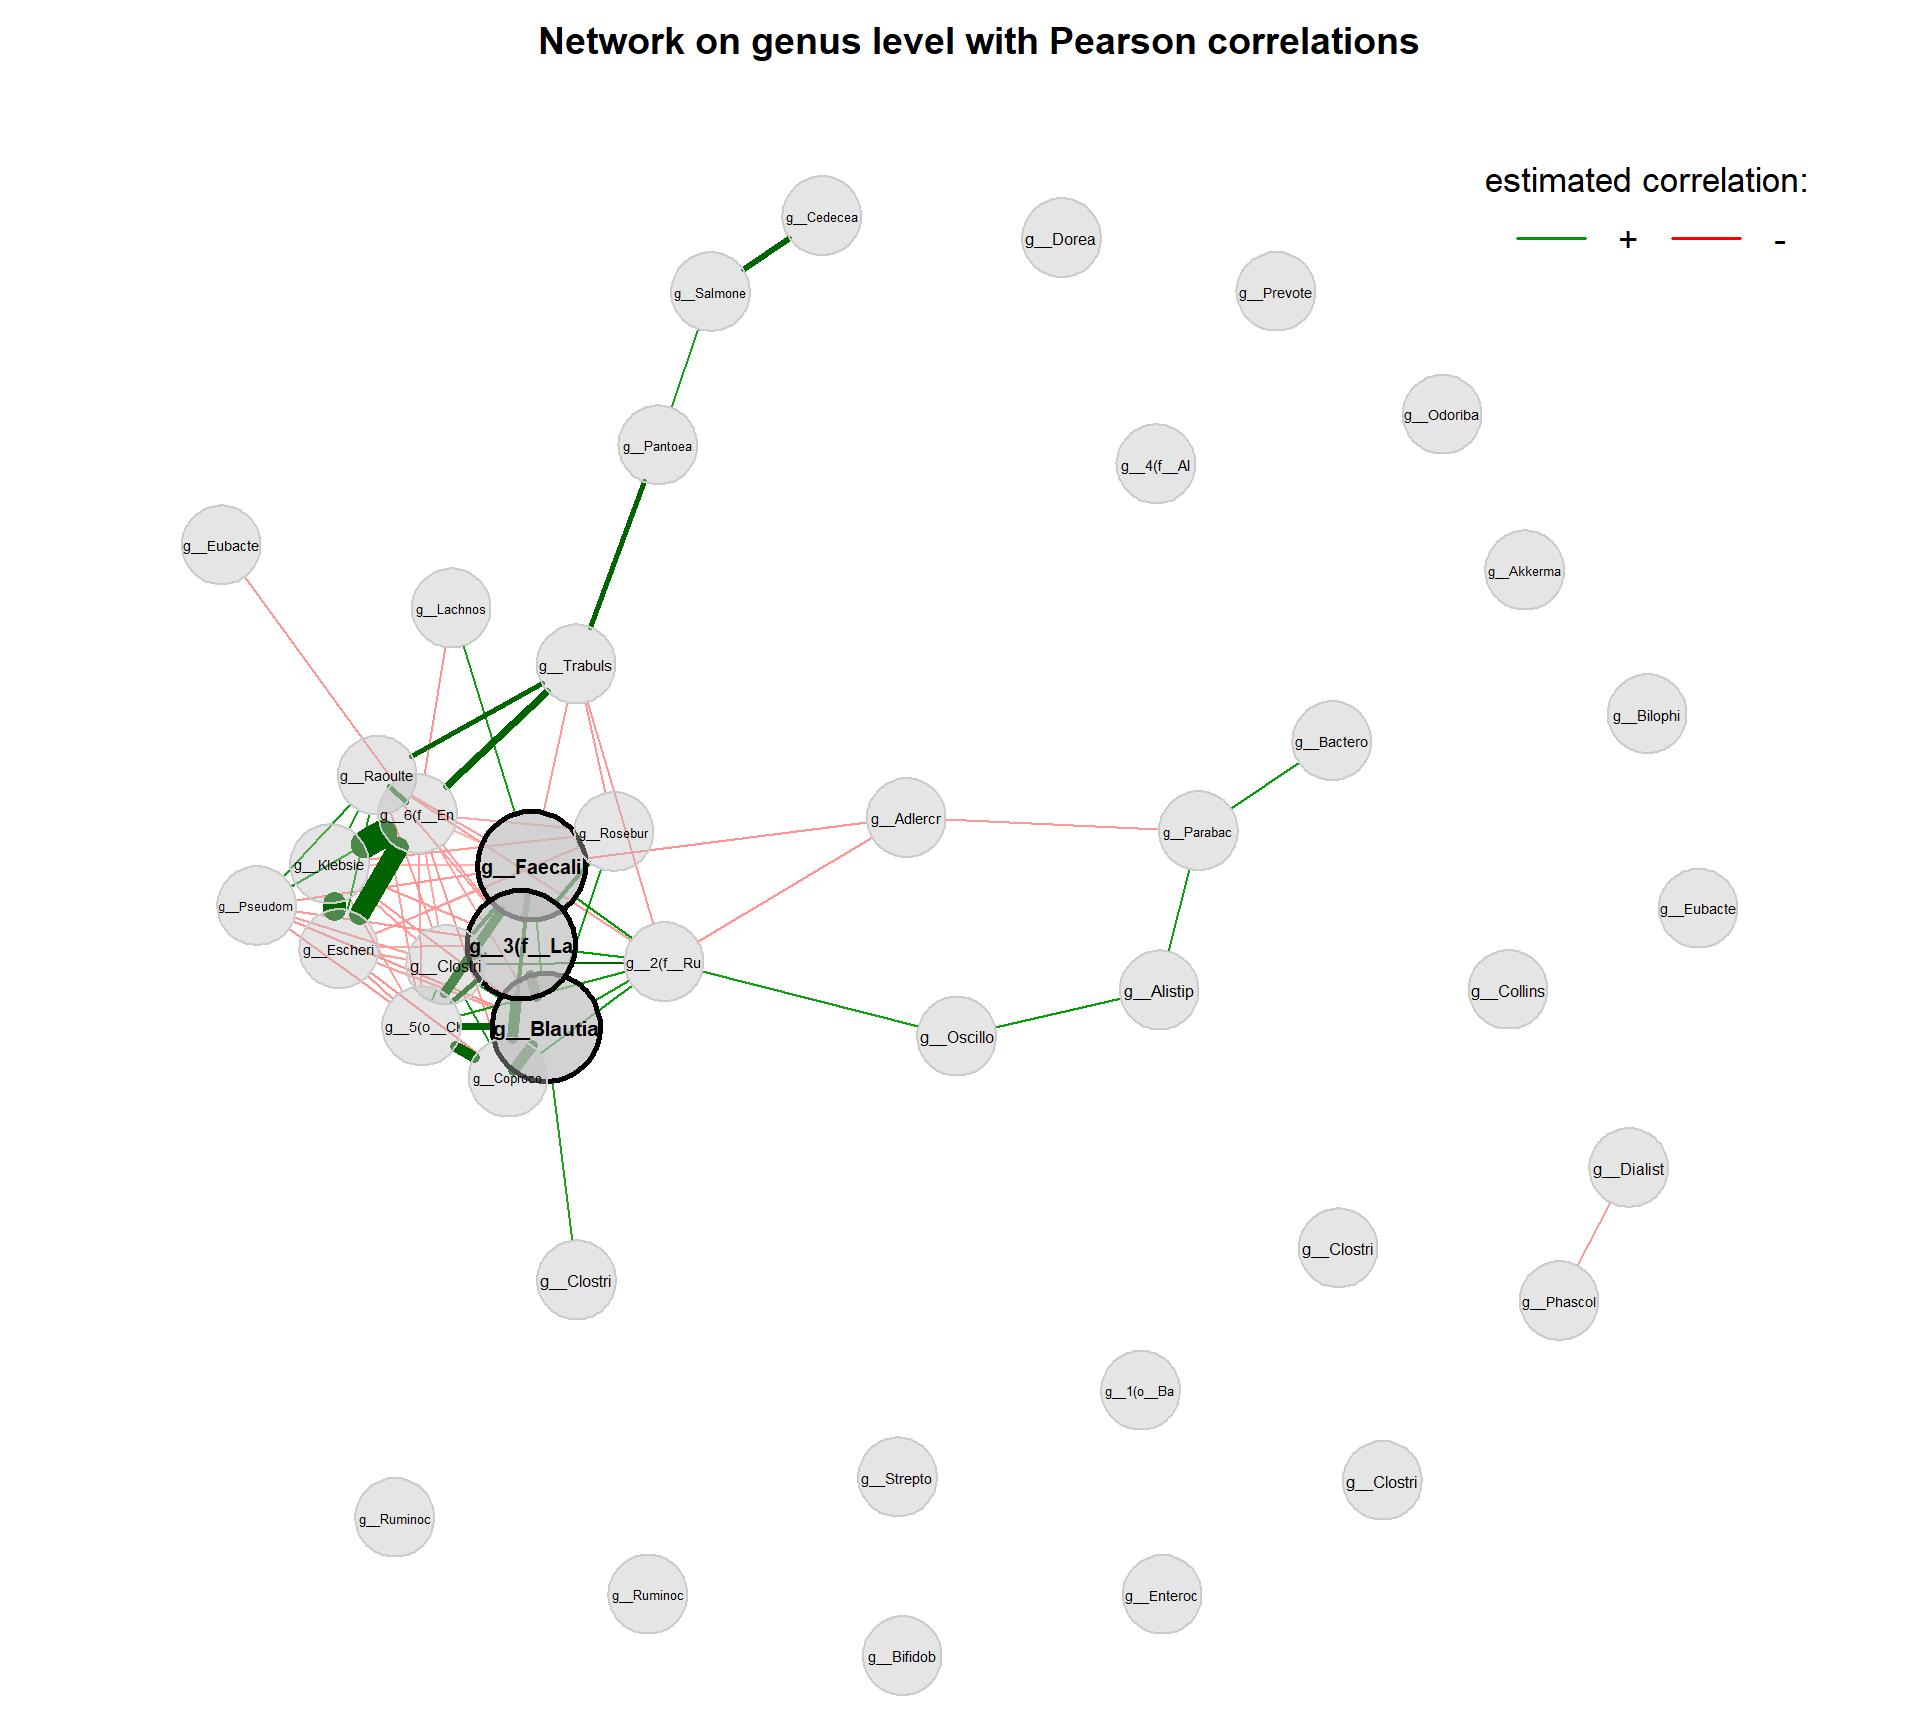
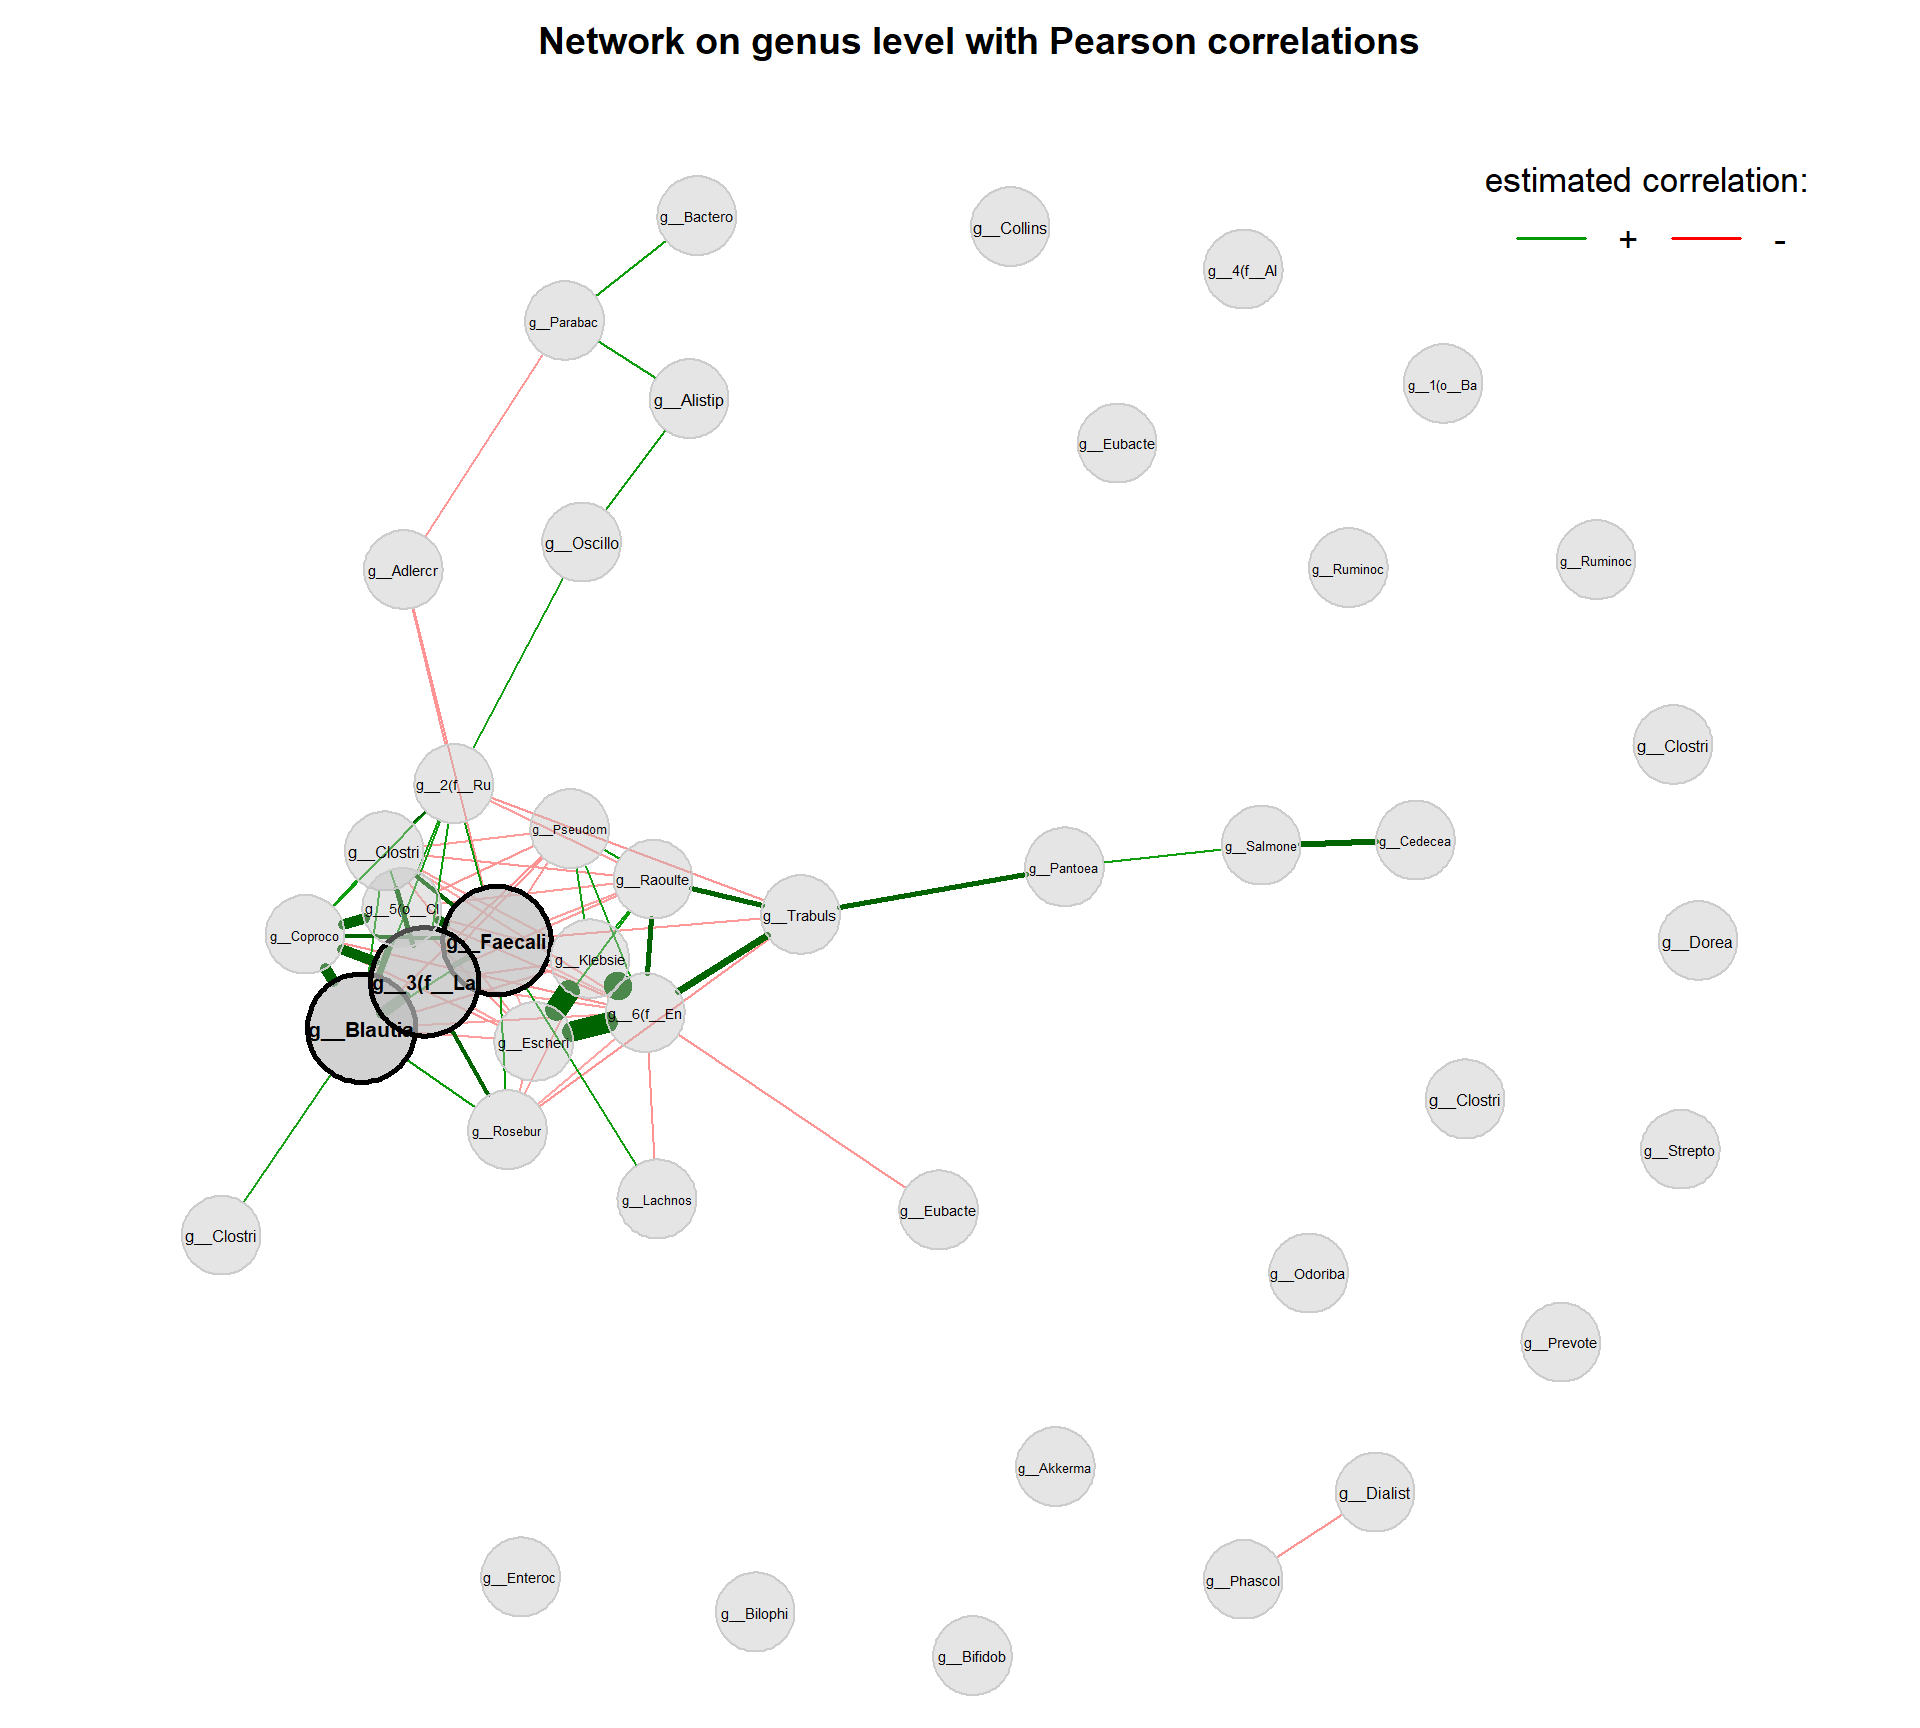
docs: update readme

diff --git a/readme.md b/readme.md
@@ -42,7 +42,8 @@ differentially associated taxa are connected.
 
 1.  [Overview of methods](#overview-of-methods-included-in-NetCoMi)
 2.  [Installation](#installation)
-3.  [Usage](#usage)
+3.  [Development version](#development-version)
+4.  [Usage](#usage)
     -   [Single network with
         SPRING](#single-network-with-spring-as-association-measure)
     -   [Single network with
@@ -53,7 +54,7 @@ differentially associated taxa are connected.
     -   [Differential networks](#differential-networks)
     -   [Dissimilarity-based Networks](#dissimilarity-based-networks)
     -   [Soil microbiome example](#soil-microbiome-example)
-4.  [References](#references)
+5.  [References](#references)
 
 ## Overview of methods included in NetCoMi
 
@@ -180,6 +181,23 @@ installNetCoMiPacks()
 
 If not installed via `installNetCoMiPacks()`, the required package is
 installed by the respective NetCoMi function when needed.
+
+## Development version
+
+Everyone who wants to use new features not included in any releases is
+invited to install NetCoMi’s development version:
+
+``` r
+devtools::install_github("stefpeschel/NetCoMi", 
+                         ref = "develop",
+                         dependencies = c("Depends", "Imports", "LinkingTo"),
+                         repos = c("https://cloud.r-project.org/",
+                                   BiocManager::repositories()))
+```
+
+Please check the
+[NEWS](https://github.com/stefpeschel/NetCoMi/blob/develop/NEWS.md)
+document for features implemented on develop branch.
 
 ## Usage
 
@@ -600,8 +618,10 @@ Modifications:
 ``` r
 # Compute layout
 graph3 <- igraph::graph_from_adjacency_matrix(net_single3$adjaMat1, weighted = TRUE)
+set.seed(123456)
 lay_fr <- igraph::layout_with_fr(graph3)
-# Note that row names of the layout matrix must match the node names
+
+# Row names of the layout matrix must match the node names
 rownames(lay_fr) <- rownames(net_single3$adjaMat1)
 
 plot(props_single3,
@@ -1056,7 +1076,7 @@ why it is a hub on the right, but not on the left.
 
 However, if the layout of one group is simply taken over to the other,
 one of the networks (here the “seasonal allergies” group) is usually not
-that nice-looking due to the long edges. Therefore, NetCoMi (\>= 1.0.2)
+that nice-looking due to the long edges. Therefore, NetCoMi (>= 1.0.2)
 offers a further option (`layoutGroup = "union"`), where a union of the
 two layouts is used in both groups. In doing so, the nodes are placed as
 optimal as possible equally for both networks.
